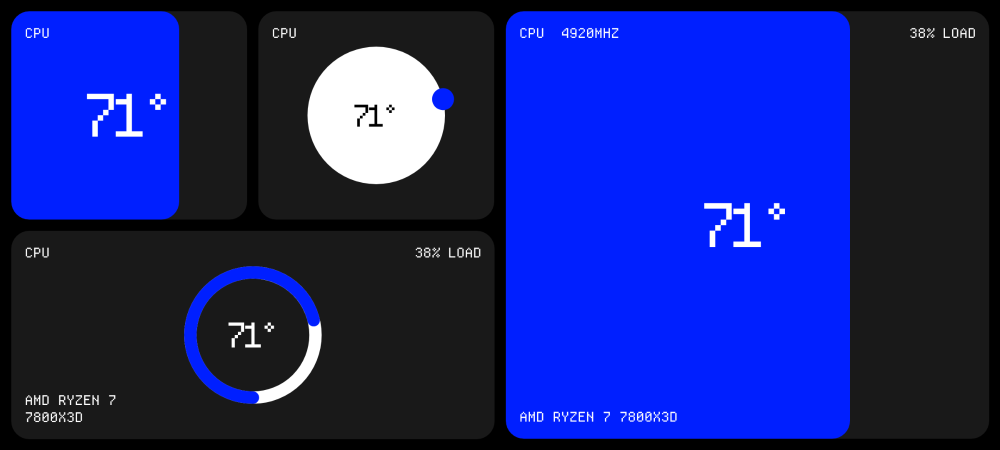
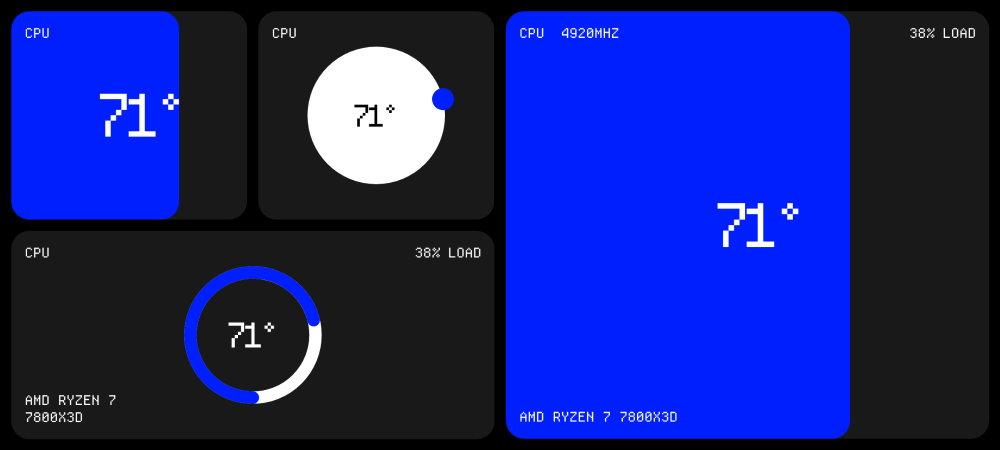
Keep tiles clear of rounded screen corners; fill style tweaks
- Read the screen's corner radius (Android 12+) and inset the grid just
  enough that tile corners and their corner text aren't clipped.
- Fill style: the reading is always white and sits slightly right of
  centre so the digits, not the whole string, look centred.
- Show the app version on the menu's first page.
- Tiles carry an accessibility description; new test rotates the real
  activity and checks every tile keeps its place and style.

Claude-Session: https://claude.ai/code/session_01SeN6n3ZLVNTU839hegM4VZ

Changed region(s): [[0.682, 0.4356, 0.806, 0.56], [0.093, 0.1867, 0.186, 0.3111]]

diff --git a/android/app/src/test/java/com/myty/monitor/RotationTest.kt b/android/app/src/test/java/com/myty/monitor/RotationTest.kt
@@ -1,0 +1,74 @@
+package com.myty.monitor
+
+import android.content.Context
+import androidx.compose.ui.geometry.Rect
+import androidx.compose.ui.test.SemanticsNodeInteraction
+import androidx.compose.ui.test.getBoundsInRoot
+import androidx.compose.ui.test.junit4.createEmptyComposeRule
+import androidx.compose.ui.test.onAllNodesWithContentDescription
+import androidx.compose.ui.test.onNodeWithContentDescription
+import androidx.compose.ui.unit.DpRect
+import androidx.test.core.app.ActivityScenario
+import androidx.test.core.app.ApplicationProvider
+import androidx.test.ext.junit.runners.AndroidJUnit4
+import org.junit.Assert.assertEquals
+import org.junit.Assert.assertTrue
+import org.junit.Before
+import org.junit.Rule
+import org.junit.Test
+import org.junit.runner.RunWith
+import org.robolectric.RuntimeEnvironment
+import org.robolectric.annotation.Config
+import org.robolectric.annotation.GraphicsMode
+
+/** Rotating the phone keeps every tile, its style and its place (right half stacked under the left). */
+@RunWith(AndroidJUnit4::class)
+@GraphicsMode(GraphicsMode.Mode.NATIVE)
+@Config(qualifiers = "w800dp-h400dp-land", sdk = [34])
+class RotationTest {
+    @get:Rule val rule = createEmptyComposeRule()
+
+    @Before
+    fun connectedBefore() {
+        // Pretend the app was connected to a PC before, so it opens straight onto the tiles.
+        ApplicationProvider.getApplicationContext<Context>().getSharedPreferences("myty", Context.MODE_PRIVATE)
+            .edit().clear().putString("host", "127.0.0.1").putInt("port", 1).commit()
+    }
+
+    private val tiles = listOf("RAM tile, style 3, small", "NETWORK tile, style 1, small", "GPU tile, style 1, wide", "CPU tile, style 2, large")
+
+    private fun bounds(): Map<String, DpRect> = tiles.associateWith { d ->
+        val n: SemanticsNodeInteraction = rule.onNodeWithContentDescription(d, useUnmergedTree = true)
+        n.getBoundsInRoot()
+    }
+
+    @Test
+    fun rotateKeepsLayout() {
+        ActivityScenario.launch(MainActivity::class.java).use { scenario ->
+            rule.waitForIdle()
+            val land = bounds()
+            // Landscape: RAM | NET | CPU(large) on top, GPU under RAM+NET.
+            assertTrue(land.getValue(tiles[3]).left > land.getValue(tiles[1]).right)
+
+            RuntimeEnvironment.setQualifiers("w400dp-h800dp-port")
+            scenario.recreate()
+            rule.mainClock.advanceTimeBy(2000)
+            rule.waitForIdle()
+            val port = bounds()
+            val ram = port.getValue(tiles[0]); val net = port.getValue(tiles[1])
+            val gpu = port.getValue(tiles[2]); val cpu = port.getValue(tiles[3])
+            // Portrait: RAM | NET, then GPU, then CPU underneath; styles unchanged (found by description).
+            assertTrue("net right of ram", net.left > ram.left && kotlin.math.abs(net.top.value - ram.top.value) < 1)
+            assertTrue("gpu below ram", gpu.top > ram.bottom)
+            assertTrue("cpu below gpu", cpu.top > gpu.bottom)
+            assertEquals(4, tiles.count { rule.onAllNodesWithContentDescription(it, useUnmergedTree = true).fetchSemanticsNodes().size == 1 })
+
+            RuntimeEnvironment.setQualifiers("w800dp-h400dp-land")
+            scenario.recreate()
+            rule.mainClock.advanceTimeBy(2000)
+            rule.waitForIdle()
+            val back = bounds()
+            for (t in tiles) assertEquals(t, land.getValue(t), back.getValue(t))
+        }
+    }
+}

diff --git a/android/app/src/main/java/com/myty/monitor/MainActivity.kt b/android/app/src/main/java/com/myty/monitor/MainActivity.kt
@@ -1,6 +1,9 @@
 package com.myty.monitor
 
+import android.os.Build
 import android.os.Bundle
+import android.view.RoundedCorner
+import android.view.View
 import android.view.WindowManager
 import androidx.activity.ComponentActivity
 import androidx.activity.compose.BackHandler
@@ -17,7 +20,12 @@ import androidx.compose.runtime.Composable
 import androidx.compose.runtime.CompositionLocalProvider
 import androidx.compose.runtime.getValue
 import androidx.compose.ui.Modifier
+import androidx.compose.runtime.remember
 import androidx.compose.ui.platform.LocalDensity
+import androidx.compose.ui.platform.LocalView
+import androidx.compose.ui.unit.Dp
+import androidx.compose.ui.unit.dp
+import kotlin.math.sqrt
 import androidx.compose.ui.unit.Density
 import androidx.core.view.WindowCompat
 import androidx.core.view.WindowInsetsCompat
@@ -63,10 +71,13 @@ private fun App(vm: MonitorViewModel) {
             val (baseW, baseH) = if (landscape) 780f to 400f else 400f to 800f
             val scale = minOf(maxWidth.value / baseW, maxHeight.value / baseH).coerceIn(0.7f, 2.5f)
             val density = LocalDensity.current
+            val view = LocalView.current
+            val cornerPx = remember(landscape) { screenCornerRadius(view) }
             CompositionLocalProvider(LocalDensity provides Density(density.density * scale, fontScale = 1f)) {
                 HomeScreen(
                     state = state,
                     portrait = !landscape,
+                    edge = edgeForCorners(cornerPx / (density.density * scale)),
                     tiles = look.tiles,
                     customColors = look.custom,
                     onTiles = vm::setTiles,
@@ -77,4 +88,27 @@ private fun App(vm: MonitorViewModel) {
             }
         }
     }
+}
+
+/** Radius of the screen's rounded corners in px, or 0 if the phone doesn't say (before Android 12). */
+private fun screenCornerRadius(view: View): Int {
+    if (Build.VERSION.SDK_INT < Build.VERSION_CODES.S) return 0
+    val display = view.display ?: return 0
+    return listOf(
+        RoundedCorner.POSITION_TOP_LEFT, RoundedCorner.POSITION_TOP_RIGHT,
+        RoundedCorner.POSITION_BOTTOM_LEFT, RoundedCorner.POSITION_BOTTOM_RIGHT,
+    ).maxOf { display.getRoundedCorner(it)?.radius ?: 0 }
+}
+
+/**
+ * How far in from the screen edge the tiles must sit so rounded screen corners don't cut into them.
+ * A tile corner of radius r at inset d clears a screen corner of radius R when d >= (R - r)(1 - 1/sqrt 2);
+ * its corner text (12dp in) clears it when d >= R(1 - 1/sqrt 2) - 12dp. Plus a little for the burn-in shift.
+ */
+private fun edgeForCorners(screenRadiusDp: Float): Dp {
+    if (screenRadiusDp <= 0f) return Myty.Gap
+    val k = 1f - 1f / sqrt(2f)
+    val forTile = (screenRadiusDp - Myty.Radius.value) * k
+    val forText = screenRadiusDp * k - 12f
+    return maxOf(Myty.Gap.value, maxOf(forTile, forText) + 4f).dp
 }

diff --git a/android/app/src/main/java/com/myty/monitor/ui/HomeScreen.kt b/android/app/src/main/java/com/myty/monitor/ui/HomeScreen.kt
@@ -48,6 +48,7 @@ import androidx.compose.ui.platform.LocalHapticFeedback
 import androidx.compose.ui.semantics.contentDescription
 import androidx.compose.ui.semantics.semantics
 import androidx.compose.ui.text.style.TextAlign
+import androidx.compose.ui.unit.Dp
 import androidx.compose.ui.unit.IntOffset
 import androidx.compose.ui.unit.dp
 import androidx.compose.ui.unit.sp
@@ -84,6 +85,8 @@ fun HomeScreen(
     onAccent: (Color) -> Unit,
     onCustomColor: (Int, Color) -> Unit,
     onChangePc: () -> Unit,
+    /** Space around the grid; more than the usual gap on phones with big rounded screen corners. */
+    edge: Dp = Myty.Gap,
 ) {
     val haptics = LocalHapticFeedback.current
     val grid = Grid.Main
@@ -152,7 +155,7 @@ fun HomeScreen(
                     },
                 )
             }
-            .padding(Myty.Gap)
+            .padding(edge)
             .offset(shift.x.dp, shift.y.dp),
     ) {
         val density = LocalDensity.current
@@ -342,7 +345,8 @@ private fun TileHost(
                 shape = RoundedCornerShape(Myty.Radius)
                 clip = false
             }
-            .then(gestures),
+            .then(gestures)
+            .semantics { contentDescription = "${tile.kind.label} tile, style ${tile.style}, ${tile.size.name.lowercase()}" },
     ) {
         TileContent(tile, data, chrome = !selected, modifier = Modifier.fillMaxSize())
         AnimatedVisibility(selected, Modifier.matchParentSize(), enter = fadeIn(), exit = fadeOut()) {

diff --git a/android/app/src/main/java/com/myty/monitor/ui/MenuPanel.kt b/android/app/src/main/java/com/myty/monitor/ui/MenuPanel.kt
@@ -44,6 +44,7 @@ import androidx.compose.ui.graphics.Color
 import androidx.compose.ui.graphics.drawscope.Stroke
 import androidx.compose.ui.graphics.toArgb
 import androidx.compose.ui.input.pointer.pointerInput
+import androidx.compose.ui.platform.LocalContext
 import androidx.compose.ui.unit.dp
 import androidx.compose.ui.unit.sp
 import com.myty.monitor.UiState
@@ -119,6 +120,11 @@ private fun RootPage(state: UiState, onPage: (MenuPage) -> Unit, onChangePc: () 
         )
         Pill("CHANGE PC", onChangePc, filled = false, modifier = Modifier.padding(start = 2.dp))
         Spacer(Modifier.weight(1f))
+        val context = LocalContext.current
+        val version = remember { runCatching { context.packageManager.getPackageInfo(context.packageName, 0).versionName }.getOrNull() }
+        if (version != null) {
+            Text("VERSION $version", color = Ink.copy(alpha = 0.4f), fontSize = 10.sp, modifier = Modifier.padding(start = 4.dp, bottom = 8.dp))
+        }
         Row(Modifier.fillMaxWidth().fillMaxHeight(0.62f), horizontalArrangement = Arrangement.spacedBy(10.dp)) {
             MenuCard("TILES", Glyph.Plus, Modifier.weight(1f)) { onPage(MenuPage.Tiles) }
             MenuCard("COLOURS", Glyph.Dropper, Modifier.weight(1f)) { onPage(MenuPage.Colours) }

diff --git a/android/app/src/main/java/com/myty/monitor/ui/Tiles.kt b/android/app/src/main/java/com/myty/monitor/ui/Tiles.kt
@@ -219,9 +219,11 @@ private fun FillTile(size: TileSize, g: Gauge, chrome: Boolean) {
         val split = with(androidx.compose.ui.platform.LocalDensity.current) { fillW.toPx() }
         // Same size on every tile width (it's set by one column), so tiles read alike side by side.
         val big = minOf(maxWidth.value / size.w * 0.25f, maxHeight.value * 0.42f)
+        // The reading is always white. It's nudged right so the digits sit in the middle and the
+        // degree sign hangs off them; centring the whole string makes it look off to the left.
+        Value(g.value, big, color = Myty.White, modifier = Modifier.align(Alignment.Center).offset(x = (big * 0.22f).dp))
         TwoTone(split) { inside ->
             Box(Modifier.fillMaxSize()) {
-                Value(g.value, big, color = if (inside) on else accent, modifier = Modifier.align(Alignment.Center))
                 Labels(size, g, chrome, color = if (inside) on else Myty.White)
             }
         }
